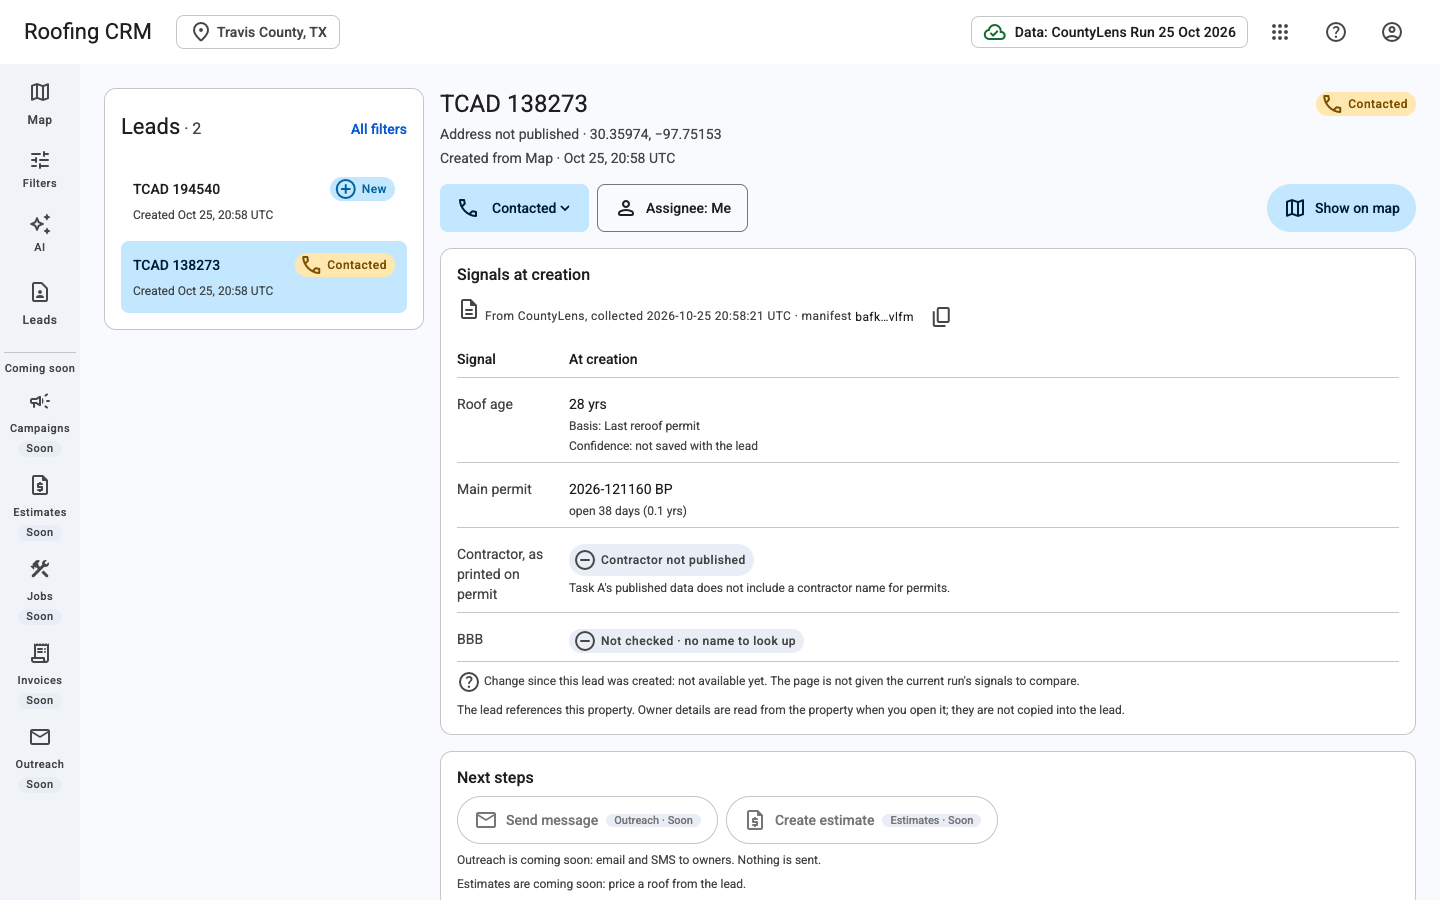
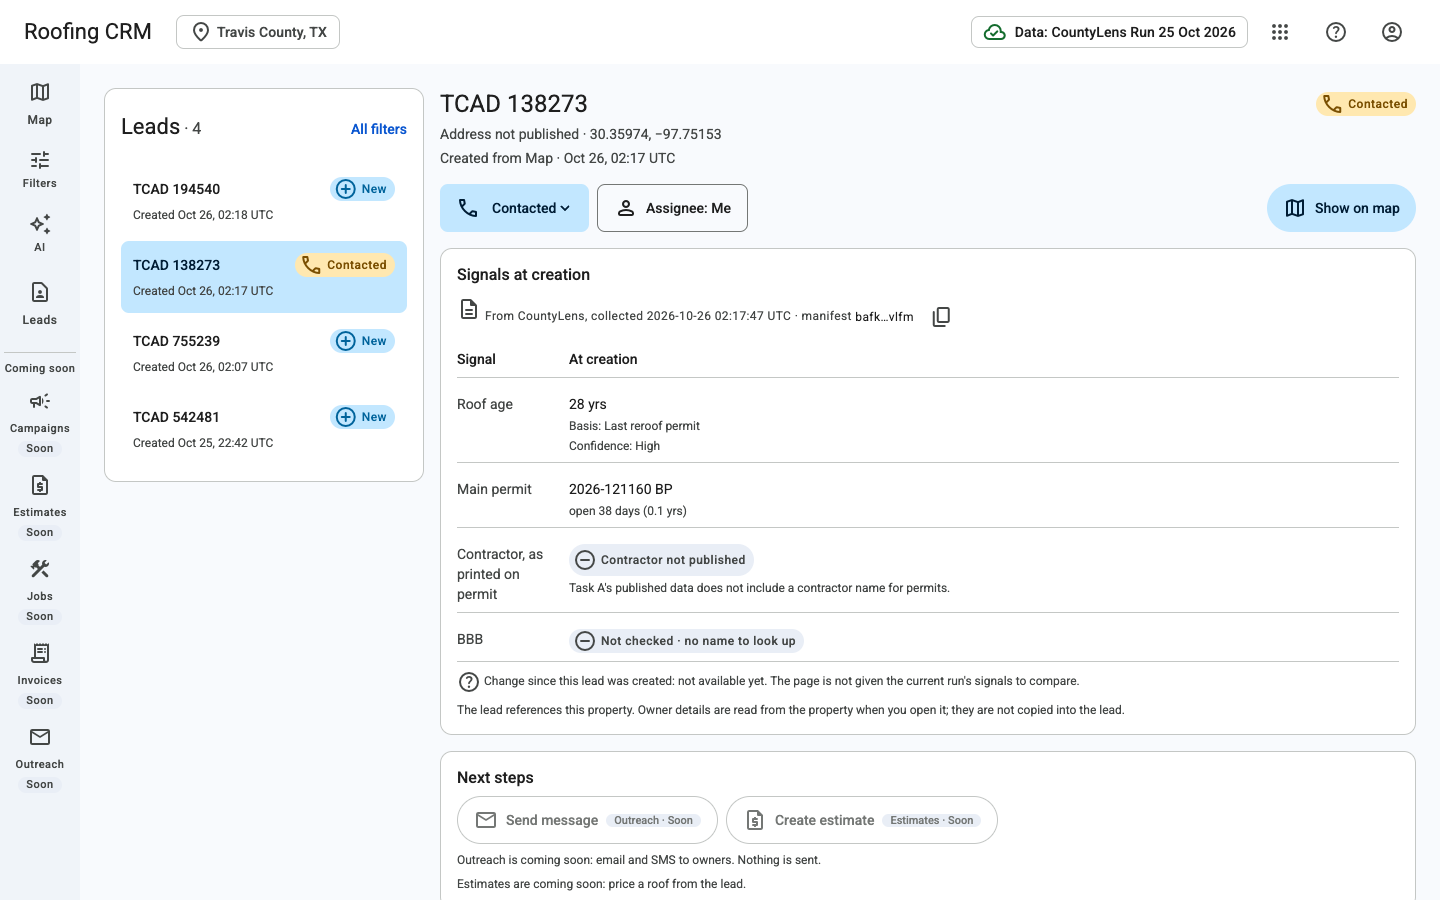
B-03: map-created leads save open versus stalled with the shared main-permit rule; one days-per-year everywhere

diff --git a/apps/web/src/routes/Leads/LeadCreateAction.tsx b/apps/web/src/routes/Leads/LeadCreateAction.tsx
@@ -7,6 +7,7 @@
 // subtree (position fixed), so it stays with the drawer or permit row that made the lead.
 import { leadKey as leadKeyOf } from "@crm/domain";
 import type { CrmPermit, CrmProperty, Provenanced } from "@crm/index-schema";
+import { mainLeadPermit } from "@crm/shared";
 import { Icon, StatusPill } from "@crm/ui";
 import { useState, type ReactElement } from "react";
 import { Link } from "react-router";
@@ -42,7 +43,8 @@ export function toCreateInput(
   permit?: Provenanced<CrmPermit>,
 ): LeadCreateInput | null {
   if (property.latitude === null || property.longitude === null) return null;
-  const snapshotPermit = permit ?? permits.find((p) => p.statusClass === "open");
+  // The same rule as the agent path and the Candidate list: the open or stalled permit open longest.
+  const snapshotPermit = permit ?? mainLeadPermit(permits);
   return {
     fips: TRAVIS_FIPS,
     requestIdentifier: property.requestIdentifier,
@@ -57,6 +59,9 @@ export function toCreateInput(
         ? {}
         : { openPermitId: snapshotPermit.permitNumber }),
       ...(snapshotPermit?.openDays == null ? {} : { openDays: snapshotPermit.openDays }),
+      ...(snapshotPermit?.statusClass === "open" || snapshotPermit?.statusClass === "stalled"
+        ? { openPermitStatus: snapshotPermit.statusClass }
+        : {}),
     },
     sourceManifestCid: property.sourceManifestCid,
     createdFrom: "map",

diff --git a/apps/api/src/services/agent/tools.ts b/apps/api/src/services/agent/tools.ts
@@ -17,7 +17,7 @@
 // `apps/api/test/services/agent/toolsImportGuard.test.ts`, which greps this file's own source for
 // those two identifiers by name); only `apps/api/src/routers/agent.ts`'s separate, rep-triggered
 // `confirmLead` mutation is allowed to reach that call.
-import { leadKey } from "@crm/domain";
+import { leadKey, yearsToDays } from "@crm/domain";
 import { gazetteer } from "@crm/oracle-views";
 import type { PlaceResolver } from "@crm/shared";
 import type { LeadIndex, PropertyResult } from "../../adapters/duckDbParquet.js";
@@ -163,7 +163,7 @@ export function createAgentDispatch(deps: AgentDispatchDeps) {
       radiusMi,
       ...(permitNumber === undefined ? {} : { permitNumber }),
       ...(statusClass === undefined ? {} : { statusClass }),
-      ...(openYearsMin === undefined ? {} : { openDaysMin: Math.ceil(openYearsMin * 365) }),
+      ...(openYearsMin === undefined ? {} : { openDaysMin: yearsToDays(openYearsMin) }),
       limit: MAX_COMPACT_ROWS,
     });
     return withoutOwnerName({

diff --git a/apps/web/src/routes/Leads/leadRowFacts.ts b/apps/web/src/routes/Leads/leadRowFacts.ts
@@ -2,6 +2,7 @@
 // snapshot `leads.list` returns beside each lead (`signals`, `lastActivity`). Both fields are new
 // on the API: a list from an older API, or a lead whose snapshot was never stored, has neither, and
 // then every cell says why instead of showing a value (constitution: never invent, show the reason).
+import { DAYS_PER_YEAR } from "@crm/domain";
 import type { LeadLastActivity, LeadSignals } from "@crm/shared";
 import { roofAgeBasisLabel, roofAgeConfidenceLabel } from "../../format/index.js";
 import { humanizeCode, permitStatusLabel } from "../../format/labels.js";
@@ -29,7 +30,7 @@ export function roofBasisText(code: string): string {
 
 /** `6.4 yrs` from a day count (the age of an open permit). */
 export function openYearsText(days: number): string {
-  return `${(days / 365).toFixed(1)} yrs`;
+  return `${(days / DAYS_PER_YEAR).toFixed(1)} yrs`;
 }
 
 type SignalsIn = LeadSignals | null | undefined;

diff --git a/apps/web/src/routes/Ask/askCopy.ts b/apps/web/src/routes/Ask/askCopy.ts
@@ -5,6 +5,7 @@
 // CrmAskNotFound390, CrmAskLowConf390, CrmAskThrottled390, CrmAskPaused390 / CrmAgentPaused390,
 // CrmAskSlow390 / CrmAgentSlow390/1440, CrmAskCreateFailed390 (all `dc-import` the shared
 // Explore1440 board with a `crmask*` / `ai*` preset).
+import { DAYS_PER_YEAR } from "@crm/domain";
 import { AGENT_TURN_LIMIT_MS, type AgentAnswer } from "@crm/shared";
 import { missingLabel, type MissingReason } from "@crm/oracle-contract";
 import { formatUtc } from "@crm/ui";
@@ -307,7 +308,6 @@ type Row = NonNullable<AgentAnswer["rows"]>[number];
 type Citation = AgentAnswer["citations"][number];
 
 const NO_SIGNAL = "No roof or permit signal published";
-const DAYS_PER_YEAR = 365.25;
 
 /** "near Pflugerville · 1.3 mi", only when the server sent the row's nearest place. */
 export function rowNearText(row: Row): string | undefined {

diff --git a/apps/api/src/agent/composeAnswer.ts b/apps/api/src/agent/composeAnswer.ts
@@ -25,7 +25,7 @@
 //  - `needs_clarification` returns the resolver's top candidates (finding 7).
 //  - Slots the plan marks `inherited` take the thread's last plan's values (finding 8 remainder).
 import { gazetteer } from "@crm/oracle-views";
-import { distanceMeters, milesToMeters, TRAVIS_COUNTY_BBOX } from "@crm/domain";
+import { DAYS_PER_YEAR, distanceMeters, milesToMeters, TRAVIS_COUNTY_BBOX } from "@crm/domain";
 import { z } from "zod";
 import {
   classifyPlaceConfidence,
@@ -725,7 +725,7 @@ function permitRow(
     facts: {
       numbers: [
         ...present([permit.openDays]),
-        ...(permit.openDays === null ? [] : [permit.openDays / 365]),
+        ...(permit.openDays === null ? [] : [permit.openDays / DAYS_PER_YEAR]),
         ...dateParts(
           permit.issueDate,
           permit.finalDate,

diff --git a/apps/web/src/format/buckets.ts b/apps/web/src/format/buckets.ts
@@ -1,7 +1,7 @@
 // The Atlas data-viz scales the map and its legend share (prototype Explore1440 `bucket`/`durTok`):
 // roof age in years → `--viz-roof-age-*`, permit open duration → `--viz-permit-open-*`. Tokens
 // are CSS custom-property names; callers use `var(<token>)` in CSS or resolve them for MapLibre.
-import { LONG_OPEN_THRESHOLD_DAYS } from "@crm/domain";
+import { DAYS_PER_YEAR, LONG_OPEN_THRESHOLD_DAYS } from "@crm/domain";
 
 export interface RoofAgeBucket {
   readonly token: string;
@@ -33,7 +33,7 @@ export interface PermitOpenBucket {
   readonly minDays: number;
 }
 
-const YEAR_DAYS = 365.25;
+const YEAR_DAYS = DAYS_PER_YEAR;
 
 export const PERMIT_OPEN_BUCKETS: readonly PermitOpenBucket[] = Object.freeze([
   { token: "--viz-permit-open-lt-1y", label: "<1", minDays: 0 },

diff --git a/apps/api/src/routers/leads.ts b/apps/api/src/routers/leads.ts
@@ -39,6 +39,7 @@ const CreateLeadInput = z.object({
     roofAgeBasis: z.string().optional(),
     roofAgeConfidence: z.enum(["high", "medium", "low", "none"]).optional(),
     openPermitId: z.string().optional(),
+    openPermitStatus: z.enum(["open", "stalled"]).optional(),
     openDays: z.number().optional(),
     contractor: z.string().optional(),
     bbbRating: z.string().optional(),

diff --git a/apps/api/test/services/agent/tools.permits.test.ts b/apps/api/test/services/agent/tools.permits.test.ts
@@ -70,7 +70,7 @@ describe("agent permit tools (GAP-1)", () => {
     });
     expect(calls[0]).toMatchObject({
       statusClass: ["open", "stalled"],
-      openDaysMinimum: 1825,
+      openDaysMinimum: 1827,
       radiusMi: 5,
       limit: 25,
     });

diff --git a/docs/progress.md b/docs/progress.md
@@ -1,6 +1,6 @@
 # Delivery Progress: `feature/roofing-crm`
 
-Generated by `scripts/progress.sh` at 2026-10-25T07:31Z from `feature/roofing-crm` @ `ab6f520`. Do not edit by hand.
+Generated by `scripts/progress.sh` at 2026-10-25T13:34Z from `feature/roofing-crm` @ `414a3f8`. Do not edit by hand.
 
 **5 of 5 stories done** · 0 in progress · 0 ready · 0 draft
 
@@ -39,7 +39,7 @@ gitGraph
   checkout "feature/roofing-crm"
   merge "007-leads" id: "B-07 done" tag: "B-07"
   branch "009-agent-hardening"
-  commit id: "B-09: 107 commit(s)"
+  commit id: "B-09: 1 commit(s)"
   checkout "feature/roofing-crm"
   merge "009-agent-hardening" id: "B-09 done" tag: "B-09"
 ```
@@ -63,6 +63,25 @@ None: story status and git history agree.
 ## Raw history (first parent = one line per merged story)
 
 ```text
+414a3f8 2026-10-25 B-09: the legend closes on Escape only when focus is on it, so dismissing the Layers dialog keeps it open
+c42c65c 2026-10-25 B-09: e2e follows the docked tablet map, the Leads table and the Ask header; new map UI spec
+babe718 2026-10-25 B-09: tablet map is a docked split with overlays, compact collapsed rows, compass direction and a pager; list view fits 768
+a5d8202 2026-10-25 B-09: Ask panel collapses the composer after an answer, tabs first, Widen to n mi, honest permit coverage note
+6c9e79c 2026-10-25 B-09: deep-link camera waits for idle and jumps; sheet bodies scroll with viewport-unit caps; candidate list pane scrolls
+34080f5 2026-10-25 B-09: Leads table with Roof, Main permit and Last activity; Permit open filter; numbered pager; one stale-run notice
+63b81be 2026-10-25 B-09: leads.list returns each lead's saved signals and last activity, and filters on permit open days
+011a3fe 2026-10-25 B-09: quote front matter values with colons so GitHub can render plan, feature list and a gate report
+1bc88cf 2026-10-25 B-09: fix two sequence diagrams that GitHub could not render (semicolons in message text)
+979ed9b 2026-10-25 B-09: PR description links point to the fork branch
+4ab8281 2026-10-25 B-09: view toggle is Map + cards | List; hexagon click drops the pin at its center; selected property centers the map
+d2d4afe 2026-10-25 B-09: probe lead removed; TC-016 note updated
+fdd20b9 2026-10-25 B-09: note why B-07-TC-016 skips (probe lead kept by the PO)
+2deb10f 2026-10-25 B-09: B-07 e2e follows the drawer's lead lookup (pill instead of a refused button); test plan and evidence updated
+5c97380 2026-10-25 B-09: permit empty state names the filter and the count matches the rows; no Create lead flash after reload; latency test times from the click
+4d72b7d 2026-10-25 B-09: prefetch the Leads list when a lead can be created so the created lead lands in a cached page
+13f5b8b 2026-10-25 B-09: PR description updated with all five stories, Run 2 and the known gaps
+97aa14b 2026-10-25 B-09: progress updated after the merge (5 of 5 stories done)
+66b4196 2026-10-25 B-09: tick TZ07 after the merge
 ab6f520 2026-10-25 B-09: merge 009-agent-hardening (agent, hardening, responsive and observable) into feature/roofing-crm
 cb6551a 2026-10-24 B-07: PR description links the fork's CI runs (they do not show in the PR checks list)
 5e1498e 2026-10-24 B-07: refresh the PR description (four stories done, crm.aldarraj.com live, CI green)
